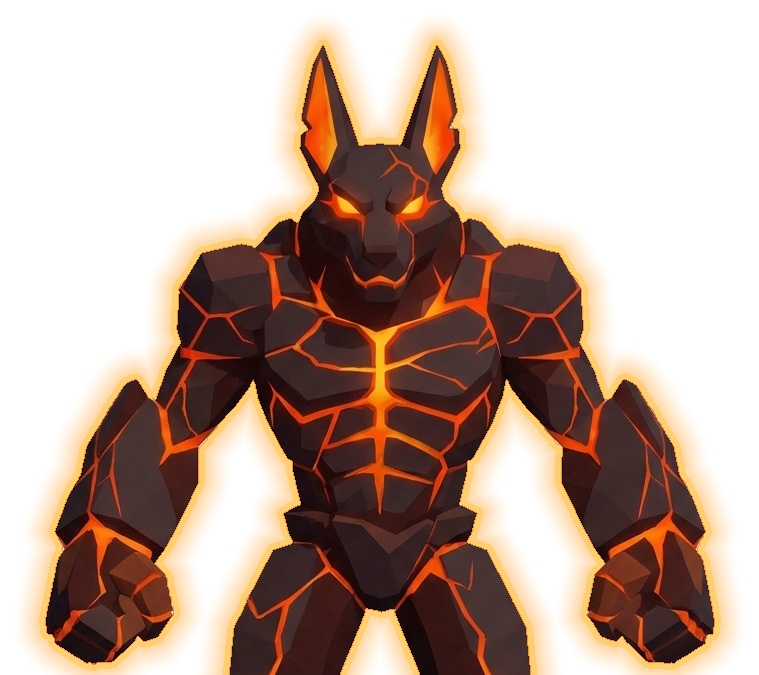
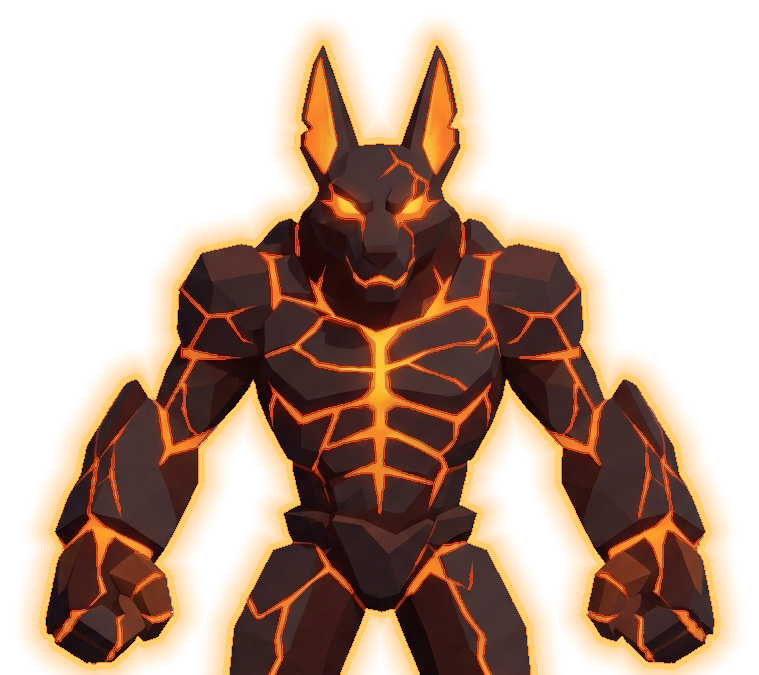
checker iter 05: jackal cracks widened a pixel with yellower cores, TARGET's coverage
Claude-Session: https://claude.ai/code/session_01AR6CE32Av3eT2fL1dDD7GR

diff --git a/tools/beast_sprite.py b/tools/beast_sprite.py
@@ -63,6 +63,12 @@ LINE = np.array([255, 206, 112], float)
 LINE_IN = np.array([250, 140, 45], float)
 HALO = np.array([255, 172, 66], float)
 
+# The cracks, widened and heated (see build).
+CRACK_GROW = 1
+CRACK_EDGE = np.array([222, 72, 24], float)
+CRACK_CORE = np.array([255, 214, 96], float)
+CRACK_CORE_MIX = 0.4
+
 # Draw at the concept's own size. Upscaling it 2x with Lanczos added no
 # detail and softened every facet edge into a two-pixel ramp; the game
 # mipmaps the texture down to ~330 px anyway (sprite_match "detail", 2026-10-07).
@@ -214,6 +220,16 @@ def build(beast_id):
     inside = ndi.binary_erosion(body, disk(1))
     out = np.zeros(a.shape[:2] + (4,), float)
     out[..., :3] = a
+    # TARGET's cracks are wider than the concept's and burn yellower at the
+    # core: on screen its chest seams cover ~25 % with cores reaching
+    # (255,205,60), ours 20 % and (255,180,57) (checker iter 05, 2026-10-07).
+    # Grow each crack a pixel into the rock in its own red edge colour, then
+    # pull the crack's interior toward TARGET's yellow core.
+    crack = inside & (r > 150) & (r - b > 90)
+    grown = ndi.binary_dilation(crack, disk(CRACK_GROW * SCALE)) & inside & ~crack
+    out[grown, :3] = CRACK_EDGE
+    core = ndi.binary_erosion(crack, disk(1))
+    out[core, :3] += (CRACK_CORE - out[core, :3]) * CRACK_CORE_MIX
     out[inside, 3] = 255
 
     # TARGET.png's edge: a thin warm line hugging the figure, and outside it

diff --git a/design/match-log/log.md b/design/match-log/log.md
@@ -26,3 +26,7 @@ Skipped 1–2 (Nick, 2026-10-06, see iter 02). Fixed 3: a billboard Sprite3D rep
 ## iter 04 — 2026-10-07
 Critic top 3: (1) MAJOR pose; (2) MAJOR fist fire; (3) MAJOR extra UI (intent label, weak-point rings, frog and marker, spark column). Its 4th: MAJOR stones too big and thick, heavy black outlines, too close to the camera.
 Skipped 1–2 (Nick, 2026-10-06). Skipped 3: the label, rings and frog are the fight's own HUD, which TARGET also draws (its intent chip, its frog), and they land in the crop only because the layout differs. They are gameplay, not art. Fixed 4: SLAB_SIZE 1.4 → 0.95, and the ink hull went from 1.05x black to 1.025x dark grey (0.20, 0.18, 0.18), TARGET's soft slab edge. Stone placement is untouched.
+
+## iter 05 — 2026-10-07
+Critic top 3: (1) MAJOR pose; (2) MAJOR fist fire; (3) MAJOR scale/framing. Its 4th: MAJOR stones run up the left arm to the shoulder instead of a stair ending under the sternum. Its 7th: MODERATE cracks thinner and redder than TARGET's, with a dim sternum.
+Skipped 1–2 (Nick, 2026-10-06). Skipped 3: the scale now nearly matches (ears at the top, the body filling the crop), and what's left is the raised fist running off the left edge, which is the pose. Skipped 4: the route is gameplay Nick set explicitly (last stone in front of the head, 2026-09-25 and 09-28), so it goes to him, not to the checker. Fixed 7 in `tools/beast_sprite.py`: each crack grows 1 px into the rock in red-orange (222,72,24), and its interior is pulled 40% toward yellow (255,214,96). On screen the chest crack coverage is 25.3% against TARGET's 25%, and the core p90 G channel went from 180 to 189 (TARGET 205).
